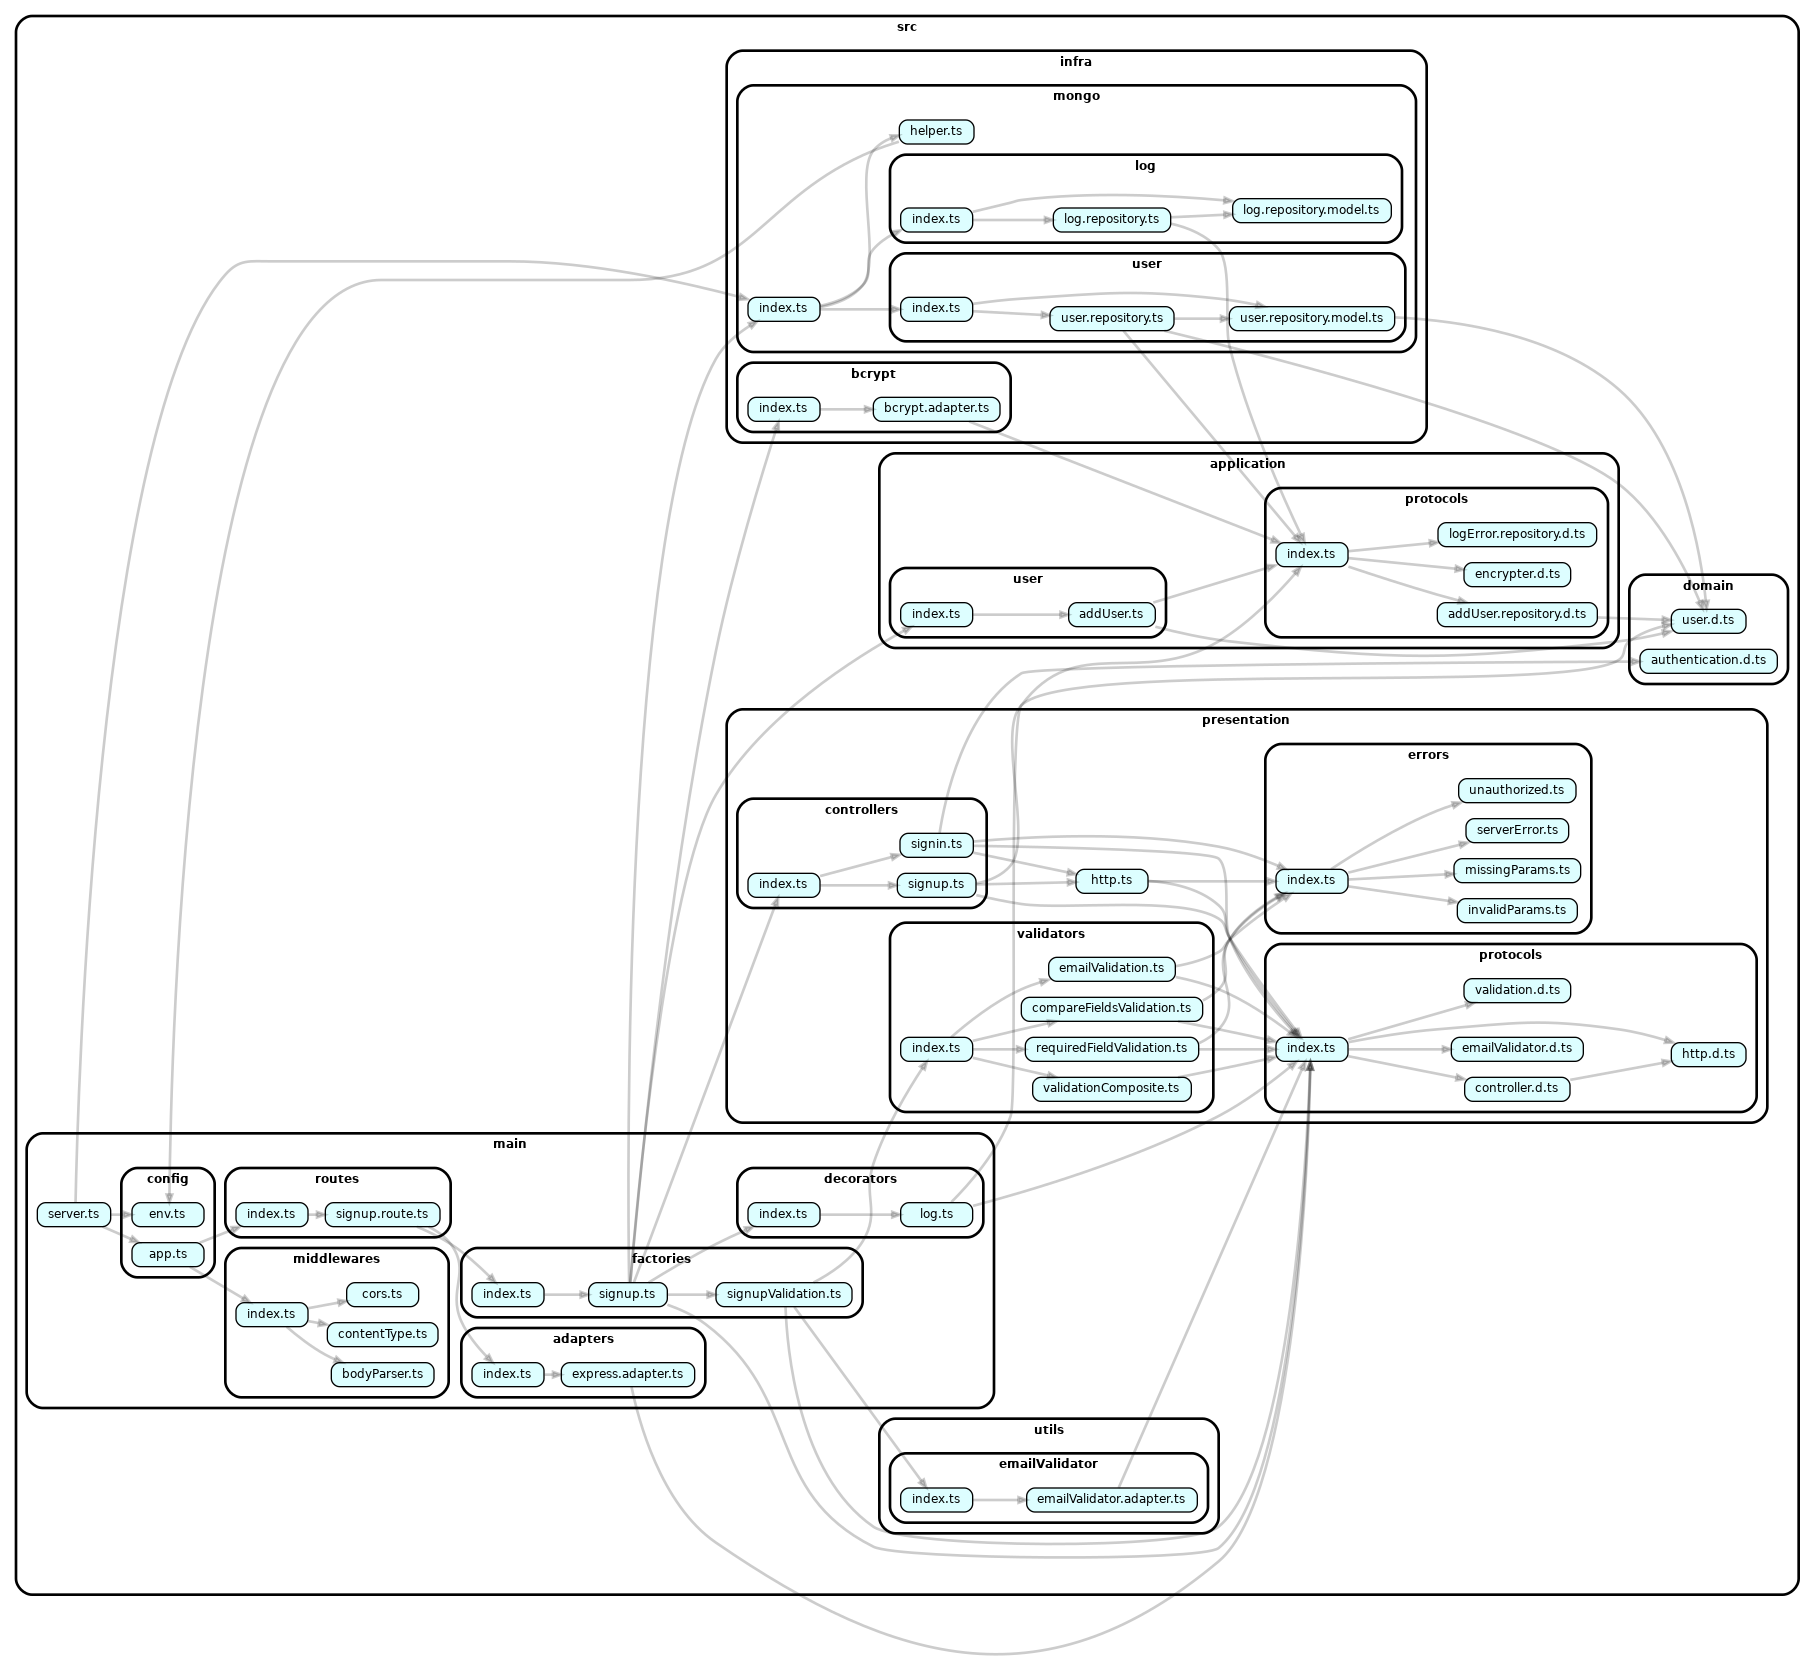
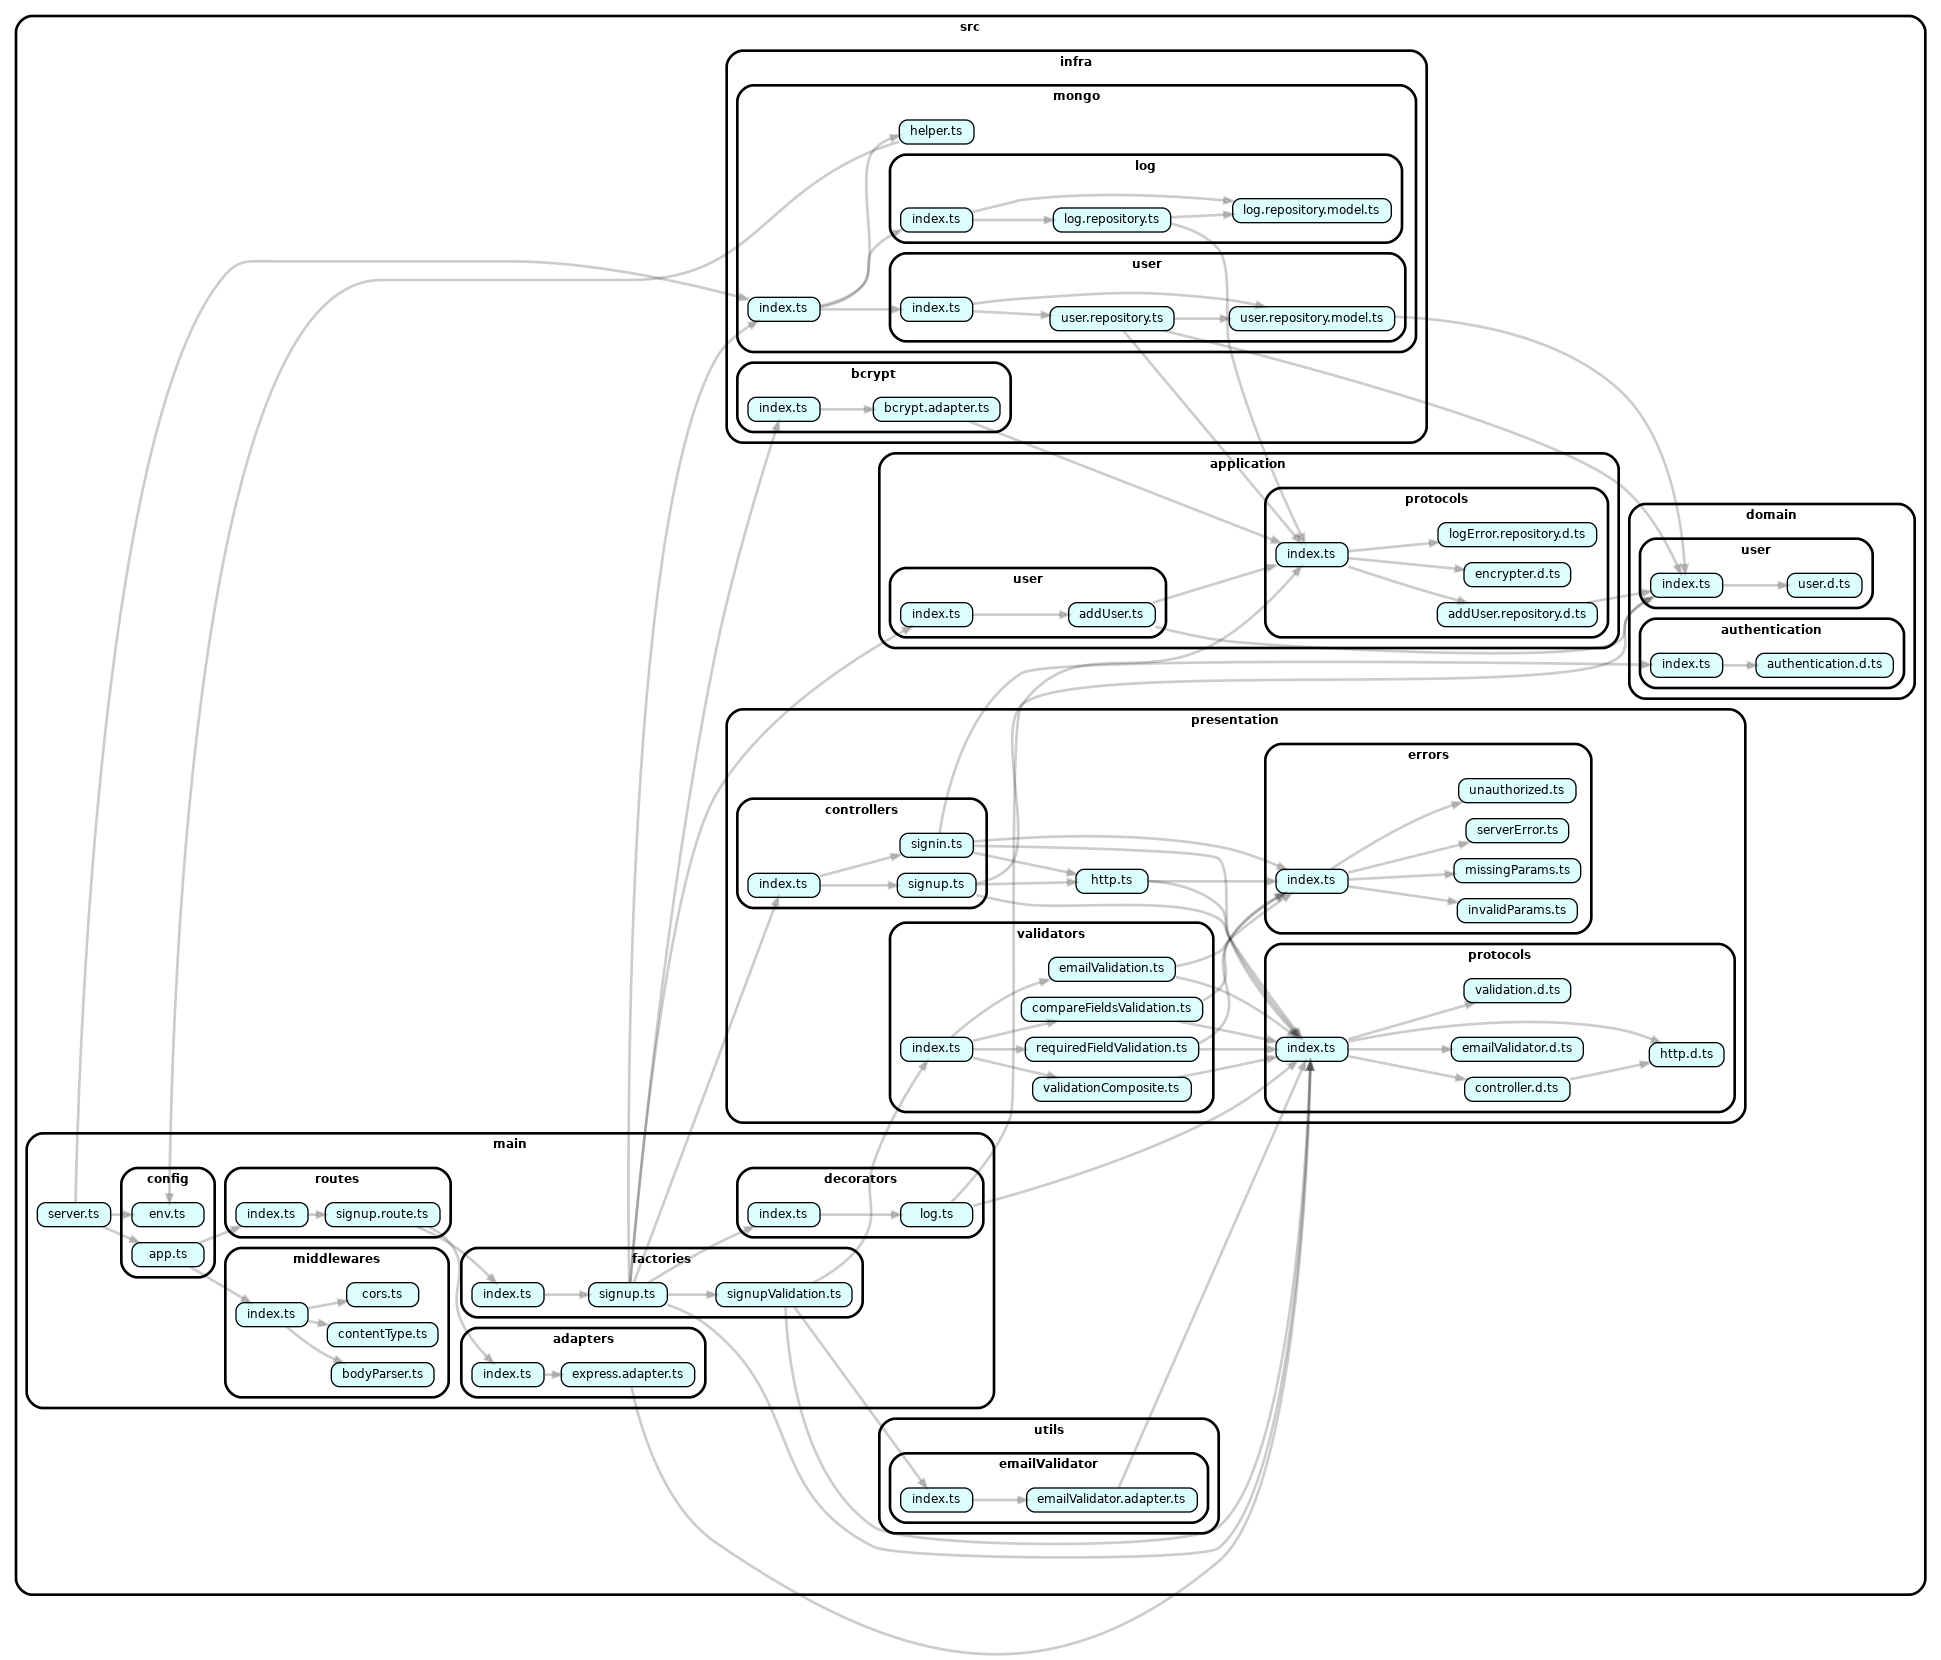
refacto: rename logControllerDecorator to LogDecorator

diff --git a/src/main/decorators/log.spec.ts b/src/main/decorators/log.spec.ts
@@ -5,11 +5,11 @@ import {
   IHttpRequest,
   IHttpResponse,
 } from '../../presentation/protocols'
-import { LogControllerDecorator } from './log'
+import { LogDecorator } from './log'
 
 interface IMockSignup {
   signUpController: SignUpControllerMock
-  logControllerDecorator: LogControllerDecorator
+  logDecorator: LogDecorator
   logErrorRepository: LogErrorRepositoryMock
 }
 class SignUpControllerMock implements IController {
@@ -33,14 +33,11 @@ const mockError = (): IHttpResponse => {
 const mockSignup = (): IMockSignup => {
   const signUpController = new SignUpControllerMock()
   const logErrorRepository = new LogErrorRepositoryMock()
-  const logControllerDecorator = new LogControllerDecorator(
-    signUpController,
-    logErrorRepository
-  )
+  const logDecorator = new LogDecorator(signUpController, logErrorRepository)
 
   return {
     signUpController,
-    logControllerDecorator,
+    logDecorator,
     logErrorRepository,
   }
 }
@@ -56,29 +53,28 @@ const mockHttpRequest: IHttpRequest = {
 
 describe('Log Decorator Controller', () => {
   test('Call function handle from the Controller', async () => {
-    const { signUpController, logControllerDecorator } = mockSignup()
+    const { signUpController, logDecorator } = mockSignup()
 
     const handleSpy = jest.spyOn(signUpController, 'handle')
-    await logControllerDecorator.handle(mockHttpRequest)
+    await logDecorator.handle(mockHttpRequest)
     expect(handleSpy).toHaveBeenCalledWith(mockHttpRequest)
   })
 
   test('Return the same result of the controller', async () => {
-    const { logControllerDecorator } = mockSignup()
+    const { logDecorator } = mockSignup()
 
-    const httpResponse = await logControllerDecorator.handle(mockHttpRequest)
+    const httpResponse = await logDecorator.handle(mockHttpRequest)
     expect(httpResponse).toEqual(ok(mockHttpRequest))
   })
 
   test('Call Log error repository with correct error', async () => {
-    const { signUpController, logControllerDecorator, logErrorRepository } =
-      mockSignup()
+    const { signUpController, logDecorator, logErrorRepository } = mockSignup()
 
     jest
       .spyOn(signUpController, 'handle')
       .mockReturnValueOnce(Promise.resolve(mockError()))
     const logSpy = jest.spyOn(logErrorRepository, 'log')
-    await logControllerDecorator.handle(mockHttpRequest)
+    await logDecorator.handle(mockHttpRequest)
 
     expect(logSpy).toHaveBeenCalledWith('fake_error')
   })

diff --git a/src/main/decorators/log.ts b/src/main/decorators/log.ts
@@ -1,17 +1,23 @@
-
 import { ILogErrorRepository } from '@/application/protocols'
-import { IController, IHttpRequest, IHttpResponse } from '@/presentation/protocols'
+import {
+  IController,
+  IHttpRequest,
+  IHttpResponse,
+} from '@/presentation/protocols'
 
-export class LogControllerDecorator implements IController {
+export class LogDecorator implements IController {
   private readonly controller
   private readonly logErrorRepository
 
-  constructor (controller: IController, logErrorRepository: ILogErrorRepository) {
+  constructor(
+    controller: IController,
+    logErrorRepository: ILogErrorRepository
+  ) {
     this.controller = controller
     this.logErrorRepository = logErrorRepository
   }
 
-  async handle (httprequest: IHttpRequest): Promise<IHttpResponse> {
+  async handle(httprequest: IHttpRequest): Promise<IHttpResponse> {
     const httpResponse = await this.controller.handle(httprequest)
     if (httpResponse.status === 500) {
       await this.logErrorRepository.log(httpResponse.body.stack)

diff --git a/src/main/factories/signup.ts b/src/main/factories/signup.ts
@@ -3,7 +3,7 @@ import { BcryptAdapter } from '@/infra/bcrypt'
 import { LogMongoRepository, UserMongoRepository } from '@/infra/mongo'
 import { SignUpController } from '@/presentation/controllers'
 import { IController } from '@/presentation/protocols'
-import { LogControllerDecorator } from '../decorators'
+import { LogDecorator } from '../decorators'
 import { makeSignupValidation } from './signupValidation'
 
 export const makeSignupController = (): IController => {
@@ -13,5 +13,5 @@ export const makeSignupController = (): IController => {
   const addUser = new AddUser(bcryptAdaptor, userMongoRepository)
   const signUpController = new SignUpController(makeSignupValidation(), addUser)
   const logMongooseRepository = new LogMongoRepository()
-  return new LogControllerDecorator(signUpController, logMongooseRepository)
+  return new LogDecorator(signUpController, logMongooseRepository)
 }

diff --git a/src/presentation/controllers/signin.ts b/src/presentation/controllers/signin.ts
@@ -1,4 +1,4 @@
-import { IAuthentication } from '@/domain/authentication/authentication'
+import { IAuthentication } from '@/domain/authentication'
 import { InvalidParamsError, MissingParamsError } from '@/presentation/errors'
 import { badRequest, ok, serverError, unauthorized } from '@/presentation/http'
 import {
